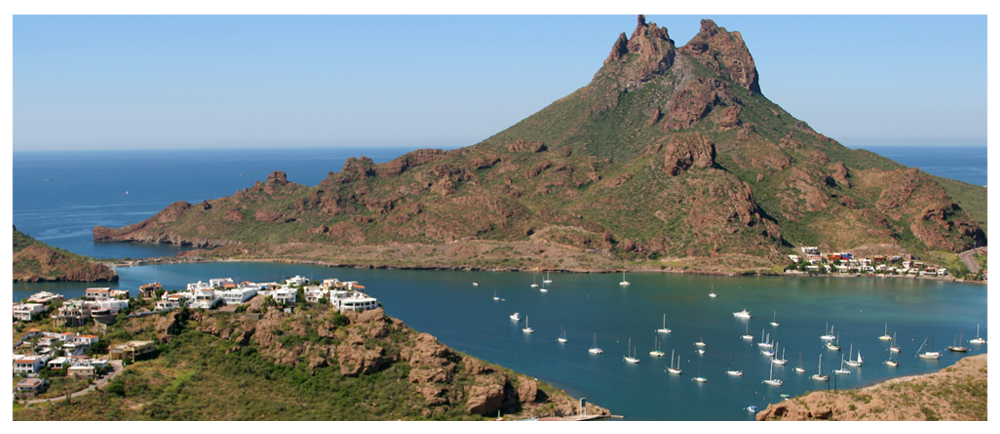
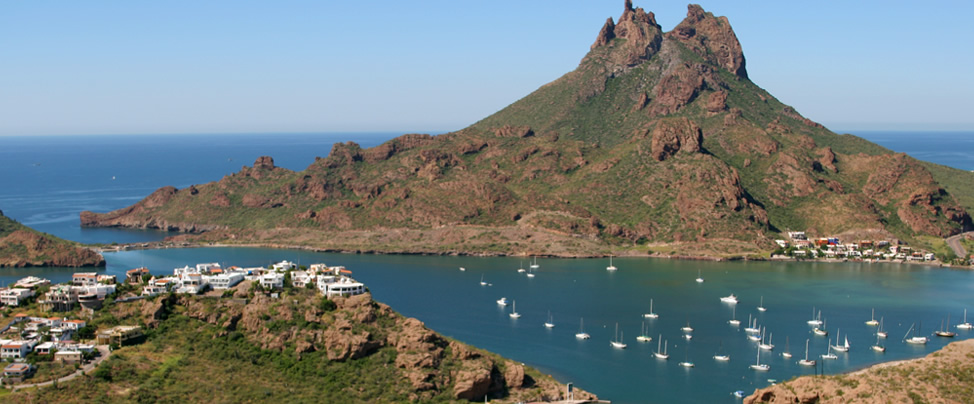
Actualización del diseño, caja del header posicionada al tope del cuerpo

diff --git a/css/main.css b/css/main.css
@@ -7,7 +7,7 @@ body{
 #wrapperMain{
 	margin: 0 auto; /*Define márgenes de un elemento*/
 	width: 1000px;
-	height: 435px;
+	height: 500px;
 	position: relative;
 }
 
@@ -34,8 +34,23 @@ body{
 	border-radius: 0px 0px 7px 7px;
 }
 
+.bannerImage{
+	border-radius: 7px;
+	border: solid 13px #fff;
+	position: absolute;
+	top: 40px;
+	left: 0px;
+}
+
 /*------ ESTILOS AUXILIARES -----*/
 
 .hidden{
 	visibility: hidden;
 }
+
+.marginReset{
+	margin: 0;
+	padding: 0;
+}
+
+

diff --git a/index.html b/index.html
@@ -11,7 +11,7 @@
 			<a href="#"><h1 id="tituloPrincipal"><span class="hidden">San Carlos: Información general</span></h1></a>
 			<div id="redesSociales"></div>
 			<img src="images/headerBanner1.jpg" alt="" width:"974" height"404" class="bannerImage">
-			<p id="slogan">Guaymas / San Carlos, Sonora | Un paraíso para vivirlo</p>
+			<p id="slogan" class="marginReset">Guaymas / San Carlos, Sonora | Un paraíso para vivirlo</p>
 		</header>
 	</div>
 </body>

diff --git a/README.md b/README.md
@@ -1,0 +1,2 @@
+# SanCarlos
+San Carlos project for Optativa 3
